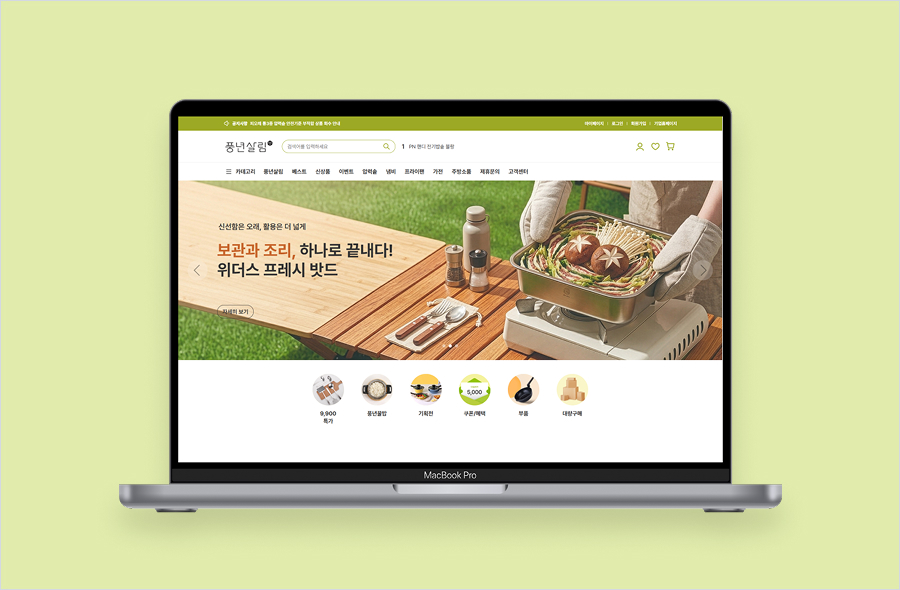
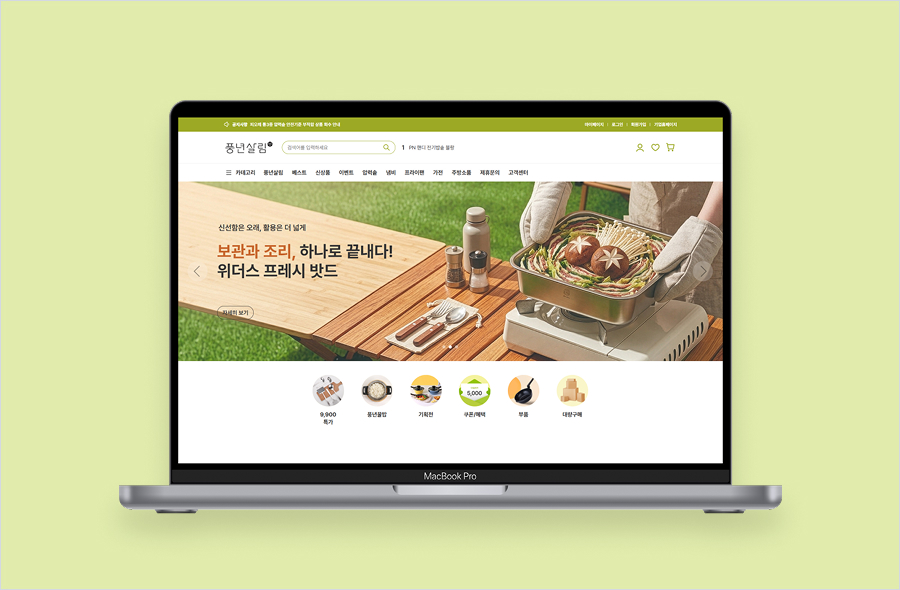
업데이트

diff --git a/css/style.css b/css/style.css
@@ -53,7 +53,15 @@ a:focus-visible, button:focus-visible { outline: .2rem solid var(--color-blue); 
 .carousel-controls button:hover { color: var(--color-blue); }
 .projects { display: grid; gap:3.2rem; } 
 .project-card { position: relative; display: block; width: 100%; height: 59rem; background: #afafaf; cursor: pointer; overflow: visible; }
-.project-card img { width: 100%; height: 100%; object-fit: cover; } 
+.project-visual { position: absolute; inset: 0; z-index: 0; display: block; overflow: hidden; }
+.project-visual > img { position: absolute; inset: 0; display: block; width: 100%; height: 100%; object-fit: cover; }
+.background-gradient { position: absolute; inset: 0; z-index: 1; background: linear-gradient(to bottom, rgba(0,0,0,1) 0%, rgba(0,0,0,.5) 100%); opacity: 0; transition: opacity .55s cubic-bezier(.22,.61,.36,1); pointer-events: none; }
+.project-copy { position: absolute; inset: 0; z-index: 2; display: flex; justify-content: space-between; align-items: flex-start; padding: 3.2rem 3.8rem 0; color: var(--color-white); letter-spacing: -.03em; opacity: 0; transform: translateY(.6rem); transition: opacity .45s ease, transform .65s cubic-bezier(.16,1,.3,1); pointer-events: none; }
+.project-copy-left { display: grid; gap: .6rem; }
+.project-subtitle { font: var(--font-cover-sub); }
+.project-title { font: var(--font-cover-title); }
+.project-card:hover .background-gradient, .project-card:focus-visible .background-gradient { opacity: .5; }
+.project-card:hover .project-copy, .project-card:focus-visible .project-copy { opacity: 1; transform: translateY(0); }
 .tooltip { position: absolute; top: 0; left: 0; padding: 1rem 1.2rem; border-radius: 0 2.0rem 2.0rem 2.0rem; background-color: var(--color-white); font: 600 1.6rem/1.9rem 'Inter', sans-serif; pointer-events: none; opacity: 0; z-index: 10; box-shadow: 0 8px 20px rgba(0,0,0,.12);  white-space: nowrap; display: flex; align-items: center; } 
 .tooltip-char { display: inline-block; color: var(--color-black); opacity: 0; filter: blur(10px); transform: translateY(8px); transition: opacity .25s cubic-bezier(.16,1,.3,1), filter .25s cubic-bezier(.16,1,.3,1), transform .25s cubic-bezier(.16,1,.3,1); } 
 .project-card:hover .tooltip { opacity: 1; } 
@@ -95,7 +103,33 @@ a:focus-visible, button:focus-visible { outline: .2rem solid var(--color-blue); 
 .skip-link:focus { position:fixed; z-index:100; top:1rem; left:1rem; background:white; padding:1rem;}
 .notice { position: fixed; bottom: 2rem; left: 50%; transform: translateX(-50%); z-index: 100; max-width: 90%; padding: 1.4rem 2rem; background:#202328; color: #fff; border-radius: 1rem; box-shadow: 0 .4rem 2rem #0002; }
 /* 데스크톱 원본 치수 유지. 작은 화면에서만 가독성을 위한 재배치. */
+.project-modal { position: fixed; inset: 0; z-index: 1000; display: grid; place-items: center; padding: 2rem; background: rgba(0,0,0,.3); -webkit-backdrop-filter: blur(12px); backdrop-filter: blur(12px); opacity: 0; visibility: hidden; transition: opacity .3s ease, visibility .3s ease; }
+.project-modal[hidden] { display: none; }
+.project-modal.is-open { opacity: 1; visibility: visible; }
+.project-dialog { position: relative; display: flex; flex-direction: column; width: min(116rem, calc(100vw - 4rem)); height: min(87.4rem, calc(100dvh - 4rem)); min-height: 0; overflow: hidden; border-radius: 1.6rem; background: var(--color-white); opacity: 0; transform: translateY(1.2rem) scale(.985); transition: opacity .32s cubic-bezier(.22,.61,.36,1), transform .42s cubic-bezier(.16,1,.3,1); }
+.project-modal.is-open .project-dialog { opacity: 1; transform: translateY(0) scale(1); }
+.modal-close { position: absolute; top: 1.4rem; right: 1.4rem; z-index: 5; display: grid; place-items: center; width: 3.2rem; height: 3.2rem; padding: 0; border: 0; border-radius: 1rem; background: #F5F5F5; color: #101010; cursor: pointer; transition: background-color .2s ease; }
+.modal-close:hover { background: #E8E8E8; }
+.modal-close svg { display: block; width: 1.2rem; height: 1.2rem; fill: none; stroke: currentColor; stroke-width: 2px; stroke-linecap: round; }
+.modal-header { flex: 0 0 auto; padding-top: 2rem; }
+.modal-breadcrumb { display: flex; gap: .5rem; margin: 0 3rem; font: var(--font-modal); letter-spacing: -.02em; }
+.modal-breadcrumb span:first-child { color: #9CA3A8; }
+.modal-breadcrumb span:last-child { color: var(--color-black); }
+.modal-overview { margin: 2.7rem auto 0; padding: 0 3rem; text-align: center; }
+.modal-overview h2 { margin: 0; color: var(--color-gray-01); font: var(--font-modal); letter-spacing: -.02em; }
+.modal-overview p { max-width: 91.8rem; margin: .8rem auto 0; color: var(--color-gray-01); font: var(--font-modal-dec); letter-spacing: -.02em; display: -webkit-box; -webkit-box-orient: vertical; -webkit-line-clamp: 2; line-clamp: 2; overflow: hidden; }
+.modal-content { flex: 1 1 auto; width: 100%; min-height: 0; margin: 2.4rem 0 2.6rem; overflow-x: hidden; overflow-y: auto; background: var(--color-white); overscroll-behavior: contain; scrollbar-width: thin; scrollbar-color: #8A8A8A transparent; }
+.modal-placeholder { width: min(96rem, calc(100% - 4rem)); min-height: 65.9rem; margin-inline: auto; background: #E5E7EB; }
+.modal-placeholder img { display: block; width: 100%; height: auto; }
+.modal-actions { position: absolute; right: 2.2rem; bottom: 2.6rem; z-index: 4; display: flex; align-items: center; gap: 1rem; }
+.modal-site-link, .modal-up { display: flex; align-items: center; justify-content: center; height: 4.6rem; border: 0; box-shadow: 0 .4rem .8rem rgba(0,0,0,.2); color: var(--color-white); cursor: pointer; }
+.modal-site-link { width: 10.4rem; border-radius: 2.4rem; background: var(--color-blue); font: var(--font-modal-site); letter-spacing: -.02em; text-decoration: none; transition: background-color .24s ease; }
+.modal-site-link:hover { background: #273dad; }
+.modal-site-link[hidden] { display: none; }
+.modal-up { width: 4.6rem; padding: 0; border-radius: 50%; background: var(--color-black); }
+.modal-up[hidden] { display: none; }
+.modal-up img { width: 1.4rem; height: 1.4rem; filter: brightness(0) invert(1); }
 @media(min-width:901px) and (max-width:1349px){html{font-size:calc(100vw / 135)}}
 @media(max-width:900px){html{font-size:62.5%}.layout{display:block;width:100%}.sidebar{position:relative;height:auto;overflow:visible;display:grid;grid-template-columns:1fr 1fr}.sidebar-top{height:auto;padding:3.2rem 2.4rem}.sidebar h2{font-size:3rem;line-height:3.7rem}.sidebar-bottom{height:auto;padding:3.2rem 2.4rem}.tool-row{gap:1.2rem}.main{width:100%}.project-card{height:auto;aspect-ratio:4/3}.approach-copy,.video-placeholder{height:auto;min-height:36rem}.approach-copy{gap:3rem}.work-box{gap:3rem}.history-row{column-gap:3rem}.header{top:.8rem}.section-space{margin-top:7rem}}
-@media(max-width:600px){.sidebar{display:block}.sidebar-bottom{padding-top:2rem;padding-bottom:3.2rem}.sidebar h2{font-size:3.6rem;line-height:4.2rem}.resume{margin-top:3.2rem}.header{justify-content:center}.mobile-card{width:25.6rem;flex-basis:25.6rem}.approach-grid{grid-template-columns:1fr}.video-placeholder{aspect-ratio:1;min-height:0}.messages{padding:3rem 2rem}.bubble{max-width:95%}.work h2{font-size:3.6rem;line-height:4.4rem}.work-box{flex-direction:column;padding:3rem}.history{width:100%}.history-row{grid-template-columns:8rem 1fr;gap:2rem}.footer{height:14rem;align-items:flex-start;flex-direction:column;justify-content:center}.section-title{font-size:2.8rem}}
-@media(prefers-reduced-motion:reduce){html{scroll-behavior:auto}.availability svg{animation:none}.navigation{transition:none}.resume{transition:none}.page-entering .intro-word{animation:none}.page-entering .sidebar-top > :not(h2),.page-entering .sidebar-bottom,.page-entering .main{opacity:1;transition:none}.page-entering .carousel-entrance{transform:none;transition:none}.carousel-track.is-animating{transition:none}}
+@media(max-width:600px){.sidebar{display:block}.sidebar-bottom{padding-top:2rem;padding-bottom:3.2rem}.sidebar h2{font-size:3.6rem;line-height:4.2rem}.resume{margin-top:3.2rem}.header{justify-content:center}.mobile-card{width:25.6rem;flex-basis:25.6rem}.approach-grid{grid-template-columns:1fr}.video-placeholder{aspect-ratio:1;min-height:0}.messages{padding:3rem 2rem}.bubble{max-width:95%}.work h2{font-size:3.6rem;line-height:4.4rem}.work-box{flex-direction:column;padding:3rem}.history{width:100%}.history-row{grid-template-columns:8rem 1fr;gap:2rem}.footer{height:14rem;align-items:flex-start;flex-direction:column;justify-content:center}.section-title{font-size:2.8rem}.project-modal{padding:1rem}.project-dialog{width:100%;height:calc(100dvh - 2rem);border-radius:1.2rem}.modal-header{padding-top:1.8rem}.modal-breadcrumb{margin-inline:1.8rem;padding-right:4rem;font-size:1.3rem}.modal-overview{margin-top:2.4rem;padding-inline:1.8rem}.modal-overview p{font-size:1.4rem;line-height:2.1rem}.modal-content{margin-top:1.8rem;margin-bottom:2rem}.modal-placeholder{width:calc(100% - 2.4rem)}.modal-actions{right:1.4rem;bottom:1.4rem}}
+@media(prefers-reduced-motion:reduce){html{scroll-behavior:auto}.availability svg{animation:none}.navigation{transition:none}.resume{transition:none}.page-entering .intro-word{animation:none}.page-entering .sidebar-top > :not(h2),.page-entering .sidebar-bottom,.page-entering .main{opacity:1;transition:none}.page-entering .carousel-entrance{transform:none;transition:none}.carousel-track.is-animating{transition:none}.project-modal,.project-dialog,.modal-close,.modal-site-link{transition:none}}

diff --git a/index.html b/index.html
@@ -41,13 +41,13 @@
   <p class="sr-only" id="carousel-status" aria-live="polite">모바일 프로젝트 1 / 5</p>
  </section>
  <section id="projects" class="projects" aria-label="메인 프로젝트">
-  <a class="project-card" href="#" data-unconfigured="프로젝트 1의 상세 페이지 URL을 연결해 주세요." aria-label="프로젝트 1"><span class="tooltip">자세히 보기</span><img src="assets/images/banwol.jpg" alt="반월 프로젝트 대표 이미지"></a>
-  <a class="project-card" href="#" data-unconfigured="프로젝트 2의 상세 페이지 URL을 연결해 주세요." aria-label="프로젝트 2"><span class="tooltip">자세히 보기</span><img src="assets/images/amante.jpg" alt="아만테 프로젝트 대표 이미지"></a>
-  <a class="project-card" href="#" data-unconfigured="프로젝트 3의 상세 페이지 URL을 연결해 주세요." aria-label="프로젝트 3"><span class="tooltip">자세히 보기</span><img src="assets/images/pn.jpg" alt="PN 프로젝트 대표 이미지"></a>
-  <a class="project-card" href="#" data-unconfigured="프로젝트 4의 상세 페이지 URL을 연결해 주세요." aria-label="프로젝트 4"><span class="tooltip">자세히 보기</span><img src="assets/images/agoda.jpg" alt="아고다 프로젝트 대표 이미지"></a>
-  <a class="project-card" href="#" data-unconfigured="프로젝트 5의 상세 페이지 URL을 연결해 주세요." aria-label="프로젝트 5"><span class="tooltip">자세히 보기</span><img src="assets/images/mireve.jpg" alt="미레브 프로젝트 대표 이미지"></a>
-  <a class="project-card" href="#" data-unconfigured="프로젝트 6의 상세 페이지 URL을 연결해 주세요." aria-label="프로젝트 6"><span class="tooltip">자세히 보기</span><img src="assets/images/texthip.jpg" alt="텍스트힙 프로젝트 대표 이미지"></a>
-  <a class="project-card" href="#" data-unconfigured="프로젝트 7의 상세 페이지 URL을 연결해 주세요." aria-label="프로젝트 7"><span class="tooltip">자세히 보기</span><img src="assets/images/mega.jpg" alt="메가 프로젝트 대표 이미지"></a>
+    <a class="project-card" href="#" aria-label="프로젝트 1"><span class="tooltip">자세히 보기</span><span class="project-visual"><span class="background-gradient" aria-hidden="true"></span><div class="project-copy" aria-hidden="true"><div class="project-copy-left"><span class="project-subtitle">웹 리디자인 · 퍼블리싱</span><span class="project-title">안산시 반월도서관</span></div><span class="project-subtitle project-subtitle-right">제작 기간 / 12.3 ~ 4.56</span></div><img src="assets/images/banwol.jpg" alt="반월 프로젝트 대표 이미지"></span></a>
+    <a class="project-card" href="#" aria-label="프로젝트 2"><span class="tooltip">자세히 보기</span><span class="project-visual"><span class="background-gradient" aria-hidden="true"></span><div class="project-copy" aria-hidden="true"><div class="project-copy-left"><span class="project-subtitle">상세페이지 디자인</span><span class="project-title">아망떼 차렵이불 상세페이지</span></div><span class="project-subtitle project-subtitle-right">제작 기간 / 12.3 ~ 4.56</span></div><img src="assets/images/amante.jpg" alt="아만테 프로젝트 대표 이미지"></span></a>
+    <a class="project-card" href="#" aria-label="프로젝트 3"><span class="tooltip">자세히 보기</span><span class="project-visual"><span class="background-gradient" aria-hidden="true"></span><div class="project-copy" aria-hidden="true"><div class="project-copy-left"><span class="project-subtitle">웹 리디자인 · 퍼블리싱</span><span class="project-title">풍년살림 브랜드 자사몰</span></div><span class="project-subtitle project-subtitle-right">제작 기간 / 12.3 ~ 4.56</span></div><img src="assets/images/pn.jpg" alt="PN 프로젝트 대표 이미지"></span></a>
+    <a class="project-card" href="#" aria-label="프로젝트 4"><span class="tooltip">자세히 보기</span><span class="project-visual"><span class="background-gradient" aria-hidden="true"></span><div class="project-copy" aria-hidden="true"><div class="project-copy-left"><span class="project-subtitle">앱 UI/UX 리디자인</span><span class="project-title">여행 플랫폼 '아고다(Agoda)'</span></div><span class="project-subtitle project-subtitle-right">제작 기간 / 12.3 ~ 4.56</span></div><img src="assets/images/agoda.jpg" alt="아고다 프로젝트 대표 이미지"></span></a>
+    <a class="project-card" href="#" aria-label="프로젝트 5"><span class="tooltip">자세히 보기</span><span class="project-visual"><span class="background-gradient" aria-hidden="true"></span><div class="project-copy" aria-hidden="true"><div class="project-copy-left"><span class="project-subtitle">오리지널 BI 디자인</span><span class="project-title">AI 생성형 플랫폼 '미레브(Mireve)'</span></div><span class="project-subtitle project-subtitle-right">제작 기간 / 12.3 ~ 4.56</span></div><img src="assets/images/mireve.jpg" alt="미레브 프로젝트 대표 이미지"></span></a>
+    <a class="project-card" href="#" aria-label="프로젝트 6"><span class="tooltip">자세히 보기</span><span class="project-visual"><span class="background-gradient" aria-hidden="true"></span><div class="project-copy" aria-hidden="true"><div class="project-copy-left"><span class="project-subtitle">오리지널 카드뉴스 디자인</span><span class="project-title">'텍스트힙' 트렌드 소개</span></div><span class="project-subtitle project-subtitle-right">제작 기간 / 12.3 ~ 4.56</span></div><img src="assets/images/texthip.jpg" alt="텍스트힙 프로젝트 대표 이미지"></span></a>
+    <a class="project-card" href="#" aria-label="프로젝트 7"><span class="tooltip">자세히 보기</span><span class="project-visual"><span class="background-gradient" aria-hidden="true"></span><div class="project-copy" aria-hidden="true"><div class="project-copy-left"><span class="project-subtitle">SNS 프로모션 배너</span><span class="project-title">메가MGC커피</span></div><span class="project-subtitle project-subtitle-right">제작 기간 / 12.3 ~ 4.56</span></div><img src="assets/images/mega.jpg" alt="메가 프로젝트 대표 이미지"></span></a>
  </section>
  <section id="about" class="about section-space" aria-labelledby="about-title"><h2 class="section-title" id="about-title">About Me</h2><p class="section-subtitle">Values, mindset, and work style.</p>
   <div class="messages">
@@ -92,6 +92,25 @@
  </section>
  <footer class="footer"><p>© <span id="year"></span> Kayung Jeong · All rights reserved</p><p>Thanks for visiting.</p></footer>
 </main></div>
+<div class="project-modal" id="project-modal" aria-hidden="true" hidden>
+ <section class="project-dialog" role="dialog" aria-modal="true" aria-labelledby="modal-project-title" aria-describedby="modal-overview-copy" tabindex="-1">
+    <button class="modal-close" type="button" aria-label="모달 닫기"><svg viewBox="0 0 12 12" aria-hidden="true"><path d="M1 1l10 10M11 1 1 11"/></svg></button>
+    <header class="modal-header">
+     <p class="modal-breadcrumb"><span>프로젝트 /</span> <span id="modal-project-title"></span></p>
+     <div class="modal-overview">
+        <h2>OVERVIEW</h2>
+        <p id="modal-overview-copy">프로젝트의 목표와 사용자의 요구를 바탕으로 더 편리한 경험을 설계했습니다. 핵심 정보가 자연스럽게 전달되도록 구조와 시각 요소를 세심하게 구성했습니다.</p>
+     </div>
+    </header>
+    <div class="modal-content" tabindex="0" aria-label="프로젝트 상세 콘텐츠">
+     <div class="modal-placeholder" aria-label="프로젝트 상세 이미지가 들어갈 영역"></div>
+    </div>
+    <div class="modal-actions">
+     <a class="modal-site-link" href="#" target="_blank" rel="noopener noreferrer" hidden>사이트 이동</a>
+     <button class="modal-up" type="button" aria-label="상세 콘텐츠 맨 위로"><img src="assets/images/logo-up.svg" alt=""></button>
+    </div>
+</section>
+</div>
 <div class="notice" role="status" hidden></div>
 
 </body>

diff --git a/script.js b/script.js
@@ -57,6 +57,102 @@ const nav = document.querySelector('.navigation'); const links = [...nav.querySe
 links.forEach(link => link.addEventListener('click', (e) => { const targetId = link.getAttribute('href'); if (!targetId.startsWith('#') || targetId === '#') return; const targetSection = document.querySelector(targetId); if (targetSection) { e.preventDefault(); targetSection.scrollIntoView({ behavior: 'smooth' }); } }));
 // 프로젝트 카드 호버 시 툴팁 고정 추적 및 오버레이 처리.
 document.querySelectorAll('.project-card').forEach(card => { const tooltip = card.querySelector('.tooltip'); if (!tooltip) return; const text = tooltip.textContent.trim(); tooltip.textContent = ''; [...text].forEach((char, i) => { const span = document.createElement('span'); span.className = 'tooltip-char'; span.textContent = char === ' ' ? '\u00A0' : char; span.style.transitionDelay = `${i * 35}ms`; tooltip.appendChild(span); }); let frameId = null; card.addEventListener('mousemove', (e) => { const rect = card.getBoundingClientRect(); const x = e.clientX - rect.left + 10; const y = e.clientY - rect.top + 16; if (frameId) cancelAnimationFrame(frameId); frameId = requestAnimationFrame(() => { tooltip.style.transform = `translate3d(${x}px, ${y}px, 0)`; }); }); });
+const projectModal = document.querySelector('#project-modal');
+const projectDialog = projectModal.querySelector('.project-dialog');
+const modalTitle = projectModal.querySelector('#modal-project-title');
+const modalOverviewCopy = projectModal.querySelector('#modal-overview-copy');
+const modalContent = projectModal.querySelector('.modal-content');
+const modalPlaceholder = projectModal.querySelector('.modal-placeholder');
+const modalCloseButton = projectModal.querySelector('.modal-close');
+const modalSiteLink = projectModal.querySelector('.modal-site-link');
+const modalUpButton = projectModal.querySelector('.modal-up');
+const modalLinkTypes = ['site', null, 'site', 'figma', 'figma', null, null];
+const modalProjectDetails = [
+	{ description: '지역 주민이 필요한 자료와 도서관 소식을 쉽고 빠르게 찾을 수 있도록 정보 구조와 탐색 경험을 개선했습니다.', image: 'photo-1498050108023-c5249f4df085', alt: '웹사이트를 작업하는 노트북 화면' },
+	{ description: '제품의 소재와 사용 장면이 잘 전달되도록 상세페이지의 콘텐츠 흐름과 시각적 위계를 구성했습니다.', image: 'photo-1547658719-da2b51169166', alt: '웹 페이지 디자인이 보이는 모니터' },
+	{ description: '브랜드의 제품과 혜택을 직관적으로 탐색하고 구매까지 이어갈 수 있도록 자사몰 화면을 재구성했습니다.', image: 'photo-1460925895917-afdab827c52f', alt: '데이터와 서비스 화면이 표시된 디지털 대시보드' },
+	{ description: '여행 일정과 숙소 정보를 비교하고 예약하는 주요 흐름을 중심으로 모바일 사용성을 개선했습니다.', image: 'photo-1507238691740-187a5b1d37b8', alt: '모바일 서비스 디자인을 살펴보는 디자이너' },
+	{ description: '생성형 AI 서비스의 성격을 시각 언어로 정리하고 다양한 접점에서 일관되게 사용할 수 있는 브랜드 아이덴티티를 설계했습니다.', image: 'photo-1558655146-d09347e92766', alt: '다채로운 그래픽 디자인 작업물' },
+	{ description: '텍스트 중심 콘텐츠를 짧은 호흡으로 읽을 수 있도록 핵심 문구와 그래픽 요소를 조합했습니다.', image: 'photo-1519389950473-47ba0277781c', alt: '화면을 함께 살펴보는 팀원들' },
+	{ description: '브랜드의 시즌 프로모션과 상품 정보를 빠르게 전달하도록 소셜 미디어용 배너 시리즈를 구성했습니다.', image: 'photo-1497366754035-f200968a6e72', alt: '브랜드 캠페인을 준비하는 업무 공간' }
+].map(detail => ({ ...detail, imageUrl: `https://images.unsplash.com/${detail.image}?auto=format&fit=crop&w=1200&h=2700&q=80` }));
+let activeProjectCard = null;
+let modalCloseTimer;
+function openProjectModal(card, index) {
+	clearTimeout(modalCloseTimer);
+	activeProjectCard = card;
+	modalTitle.textContent = card.querySelector('.project-title').textContent.trim();
+	const detail = modalProjectDetails[index];
+	modalOverviewCopy.textContent = detail.description;
+	const contentImage = document.createElement('img');
+	contentImage.src = detail.imageUrl;
+	contentImage.alt = detail.alt;
+	modalPlaceholder.replaceChildren(contentImage);
+	const linkType = modalLinkTypes[index];
+	modalSiteLink.hidden = !linkType;
+	modalSiteLink.textContent = linkType === 'figma' ? '피그마 이동' : '사이트 이동';
+	modalSiteLink.href = '#';
+	modalUpButton.hidden = index >= 5;
+	modalContent.scrollTop = 0;
+	projectModal.hidden = false;
+	projectModal.setAttribute('aria-hidden', 'false');
+	requestAnimationFrame(() => {
+		projectModal.classList.add('is-open');
+		window.setTimeout(() => {
+			if (!projectModal.contains(document.activeElement)) modalCloseButton.focus();
+		}, 50);
+	});
+}
+function closeProjectModal() {
+	if (projectModal.hidden || !projectModal.classList.contains('is-open')) return;
+	projectModal.classList.remove('is-open');
+	clearTimeout(modalCloseTimer);
+	modalCloseTimer = window.setTimeout(() => {
+		projectModal.hidden = true;
+		projectModal.setAttribute('aria-hidden', 'true');
+		activeProjectCard?.focus();
+		activeProjectCard = null;
+	}, reducePageMotion.matches ? 0 : 460);
+}
+document.querySelectorAll('.project-card').forEach((card, index) => card.addEventListener('click', (event) => {
+	event.preventDefault();
+	openProjectModal(card, index);
+}));
+modalCloseButton.addEventListener('click', closeProjectModal);
+projectModal.addEventListener('click', (event) => {
+	if (event.target === projectModal) closeProjectModal();
+});
+projectModal.addEventListener('wheel', (event) => {
+	if (!event.target.closest('.modal-content')) event.preventDefault();
+}, { passive: false });
+document.addEventListener('keydown', (event) => {
+	if (projectModal.hidden) return;
+	if (event.key === 'Escape') {
+		event.preventDefault();
+		closeProjectModal();
+		return;
+	}
+	if (event.key !== 'Tab') return;
+	const focusable = [...projectModal.querySelectorAll('button:not([hidden]), a[href]:not([hidden]), .modal-content[tabindex]')];
+	const first = focusable[0];
+	const last = focusable[focusable.length - 1];
+	if (!projectModal.contains(document.activeElement)) {
+		event.preventDefault();
+		first.focus();
+	} else if (event.shiftKey && document.activeElement === first) {
+		event.preventDefault();
+		last.focus();
+	} else if (!event.shiftKey && document.activeElement === last) {
+		event.preventDefault();
+		first.focus();
+	}
+});
+modalSiteLink.addEventListener('click', (event) => {
+	if (modalSiteLink.getAttribute('href') === '#') event.preventDefault();
+});
+modalUpButton.addEventListener('click', () => {
+	modalContent.scrollTo({ top: 0, behavior: reducePageMotion.matches ? 'auto' : 'smooth' });
+});
 // 미연결 링크가 페이지 상단으로 이동하지 않게 안내합니다. 실제 href 연결 시 data-unconfigured를 삭제하세요.
 let noticeTimer;
 document.querySelectorAll('[data-unconfigured]').forEach(link=>link.addEventListener('click',event=>{event.preventDefault();const notice=document.querySelector('.notice');notice.textContent=link.dataset.unconfigured;notice.hidden=false;clearTimeout(noticeTimer);noticeTimer=setTimeout(()=>notice.hidden=true,3500);}));

diff --git a/css/var.css b/css/var.css
@@ -23,4 +23,11 @@
 --font-foot-year: 400 1.6rem/1.9rem 'Inter', sans-serif;
 --font-Contact: 800 2rem/2.6rem 'Hanken Grotesk', sans-serif;
 --font-header: 600 1.6rem/2.3rem 'Geist', sans-serif;
+
+--font-cover-sub: 400 1.8rem/2.2rem 'Inter', sans-serif;
+--font-cover-title: 600 2.6rem/3.1rem 'Inter', sans-serif;
+
+--font-modal: 500 1.6rem/1.9rem 'Inter', sans-serif;
+--font-modal-dec: 400 1.6rem/2.6rem 'Inter', sans-serif;
+--font-modal-site: 500 1.5rem/1.8rem 'Inter', sans-serif;
 }
